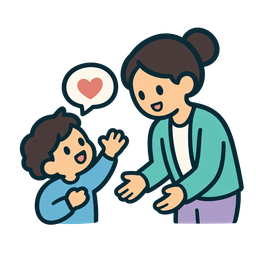
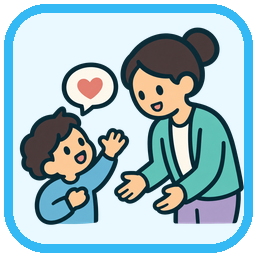
Add new PNG asset for boneca shadow background
This commit introduces a new image file `sombra_boneca_512x160.png` to the assets directory. The image is intended to be used as a shadow background for the boneca feature, enhancing the visual presentation of the application.

Changed region(s): [[0.0, 0.0, 1.0, 1.0]]

diff --git a/core/app.py b/core/app.py
@@ -1,4 +1,5 @@
 """Protótipo local da Boneca Digital, construído inteiramente com Panda3D."""
+from math import radians, tan
 from pathlib import Path
 
 from direct.actor.Actor import Actor
@@ -9,6 +10,7 @@ from direct.task import Task
 from panda3d.core import (
     AmbientLight,
     BitMask32,
+    CardMaker,
     CollisionHandlerQueue,
     CollisionNode,
     CollisionRay,
@@ -27,6 +29,9 @@ ROOT = Path(__file__).resolve().parents[1]
 MODEL_PATH = ROOT / "assets" / "boneca_3d" / "grab3d-lowpoly-character.glb"
 UI_ASSETS = ROOT / "assets" / "ui"
 SOUND_PATH = ROOT / "assets" / "audio" / "soft_chime.wav"
+SCENE_ART = ROOT / "assets" / "fundo_e_sombra_boneca"
+BACKGROUND_PATH = SCENE_ART / "fundo_tela_infantil_retrato_928x1648.png"
+SHADOW_PATH = SCENE_ART / "sombra_boneca_512x160.png"
 
 # Cores escuras o bastante para texto branco; a seleção também usa um X,
 # para que a cor nunca seja a única maneira de perceber o estado.
@@ -52,7 +57,7 @@ class BonecaApp(ShowBase):
         super().__init__()
         self.enableSoundEffects(False)
 
-        self.setBackgroundColor(247 / 255, 244 / 255, 237 / 255, 1)
+        self.setBackgroundColor(94 / 255, 204 / 255, 246 / 255, 1)
         self.disableMouse()
         self.widgets = []
         self.current_screen = "home"
@@ -89,6 +94,7 @@ class BonecaApp(ShowBase):
         self._fit_character()
         self._add_lighting()
         self._setup_camera()
+        self._setup_scene_art()
         self._start_idle_animation()
         self._setup_body_picker()
 
@@ -128,6 +134,36 @@ class BonecaApp(ShowBase):
     def _setup_camera(self):
         self.camera.setPos(0, -4.2, 1.05)
         self.camera.lookAt(0, 0, 0.9)
+
+    def _setup_scene_art(self):
+        """Coloca o fundo atrás da cena e a sombra sob os pés da boneca."""
+        if BACKGROUND_PATH.is_file():
+            distance = 8.0
+            fov = self.camLens.getFov()
+            half_width = distance * tan(radians(fov.x / 2))
+            half_height = distance * tan(radians(fov.y / 2))
+            background = CardMaker("fundo-infantil")
+            background.setFrame(-half_width, half_width, -half_height, half_height)
+            self.background_art = self.camera.attachNewNode(background.generate())
+            self.background_art.setPos(0, distance, 0)
+            self.background_art.setTexture(self.loader.loadTexture(str(BACKGROUND_PATH)), 1)
+            self.background_art.setLightOff()
+            self.background_art.setDepthWrite(False)
+        else:
+            self.background_art = None
+
+        if SHADOW_PATH.is_file():
+            shadow = CardMaker("sombra-boneca")
+            shadow.setFrame(-0.82, 0.82, -0.26, 0.26)
+            self.shadow_art = self.render.attachNewNode(shadow.generate())
+            self.shadow_art.setP(-90)
+            self.shadow_art.setPos(0, 0, 0.006)
+            self.shadow_art.setTexture(self.loader.loadTexture(str(SHADOW_PATH)), 1)
+            self.shadow_art.setTransparency(TransparencyAttrib.MAlpha)
+            self.shadow_art.setLightOff()
+            self.shadow_art.setDepthWrite(False)
+        else:
+            self.shadow_art = None
 
     def _layout_aspect(self):
         """Proporção mínima segura para posicionar UI também em telas retrato."""
@@ -629,29 +665,27 @@ class BonecaApp(ShowBase):
         elif name == "intensity":
             self._step(3, "INTENSIDADE")
             self._label("QUANTO?", 0.84, self._title_scale(), TEAL)
+            intensity_x = min(
+                0.70,
+                self._layout_aspect() - 1.08 * self._choice_card_scale() - 0.02,
+            )
+            intensity_x = max(0.18, intensity_x)
+            left_x = -intensity_x
+            right_x = intensity_x
             choices = [
-                ("Leve", "LEVE", "intensity_low", GREEN, 0.39),
-                ("Moderada", "MÉDIO", "intensity_medium", GOLD, -0.03),
-                ("Forte", "FORTE", "intensity_high", RED, -0.45),
+                ("Leve", "LEVE", "intensity_low", GREEN, left_x, 0.39),
+                ("Moderada", "MÉDIO", "intensity_medium", GOLD, right_x, -0.03),
+                ("Forte", "FORTE", "intensity_high", RED, left_x, -0.45),
             ]
             self.intensity_buttons = {}
-            self.intensity_short_names = {value: short for value, short, _, _, _ in choices}
-            intensity_card_scale = min(0.095, max(0.075, self._layout_aspect() * 0.16))
-            intensity_card_half_width = 1.08 * intensity_card_scale
-            intensity_x = min(
-                0.43,
-                self._layout_aspect() - intensity_card_half_width - 0.045,
-            )
-            intensity_x = max(0.20, intensity_x)    
-            for value, short, icon, color, y in choices:
+            self.intensity_short_names = {value: short for value, short, _, _, _, _ in choices}
+            for value, short, icon, color, x, y in choices:
                 action = lambda level=value: self._select_intensity(level)
                 self.option_actions.append(action)
-                button = self._icon_card(
-                    short, icon, intensity_x, y, action,
+                self.intensity_buttons[value] = self._icon_card(
+                    short, icon, x, y, action,
                     color=color, selected=value == self.selected_intensity
                 )
-                button.setScale(intensity_card_scale)
-                self.intensity_buttons[value] = button
             self._nav_button("VOLTAR", "nav_back", -0.40, -0.91, lambda: self.show_screen("discomfort"), PURPLE)
             self._nav_button("SEGUIR", "nav_next", 0.40, -0.91, self._continue_intensity, TEAL)
 

diff --git a/setup.py b/setup.py
@@ -34,6 +34,7 @@ setup(
             ],
             "include_patterns": [
                 "assets/boneca_3d/*.glb",
+                "assets/fundo_e_sombra_boneca/*.png",
                 "assets/ui/*.png",
                 "assets/audio/*.wav",
             ],

diff --git a/assets/ui/README.md b/assets/ui/README.md
@@ -16,3 +16,10 @@ Os arquivos são PNGs RGBA de 128 × 128 px, usados em cartões de escolha, nave
 
 Para trocar um desenho, mantenha o nome do arquivo e a transparência do PNG. Se criar uma opção nova, atualize também os mapeamentos de tela e seleção em `core/app.py`. Evite depender apenas de uma cor para comunicar estado; mantenha formas distintas e contraste forte.
 
+
+
+## Atualização visual infantil
+Os pictogramas foram atualizados com cores mais vivas e aparência amigável.
+Os nomes originais foram preservados para permitir substituir os arquivos de assets.
+Todos os PNGs mantêm transparência RGBA. Os arquivos que eram 128 x 128 continuam
+128 x 128; `help_call_adult.png` permanece 256 x 256.
